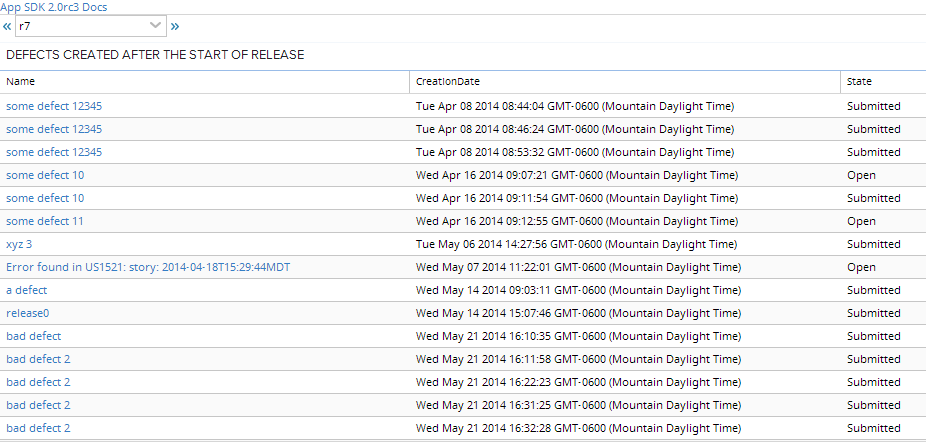
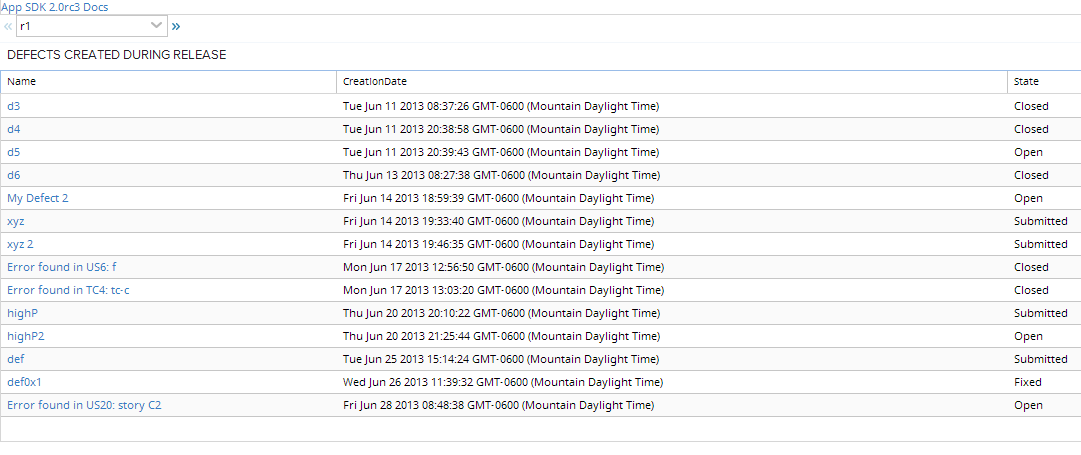
third commit

Changed region(s): [[0.0, 0.0, 1.0, 0.9888]]

diff --git a/deploy/App.html b/deploy/App.html
@@ -1,16 +1,16 @@
 <!DOCTYPE html>
 <html>
 <head>
-    <title>Defects Created After Start of Release</title>
+    <title>Defects created during Release</title>
 
     <script type="text/javascript" src="/apps/2.0rc3/sdk.js"></script>
 
     <script type="text/javascript">
         Rally.onReady(function () {
-                Ext.define("CustomApp",{extend:"Rally.app.App",componentCls:"app",items:{html:'<a href="https://help.rallydev.com/apps/2.0rc3/doc/">App SDK 2.0rc3 Docs</a>'},launch:function(){var rComboBox=Ext.create("Rally.ui.combobox.ReleaseComboBox",{listeners:{ready:function(combobox){this._getData(combobox.getRecord())},select:function(combobox){this._getData(combobox.getRecord())},scope:this}});this.add(rComboBox)},_getData:function(release){var project=this.getContext().getProject(),projectRef=project._ref;this._projectOid=project.ObjectID,console.log(project);var releaseStartDate=release.get("ReleaseStartDate"),releaseStartDateISO=Rally.util.DateTime.toIsoString(releaseStartDate,!0),releaseDate=release.get("ReleaseDate"),releaseDateISO=Rally.util.DateTime.toIsoString(releaseDate,!0),myStore=Ext.create("Rally.data.wsapi.Store",{model:"Defect",autoLoad:!0,fetch:["Name","State","CreationDate"],filters:[{property:"CreationDate",operator:">=",value:releaseStartDateISO},{property:"CreationDate",operator:"<=",value:releaseDateISO},{property:"Project",value:projectRef}],listeners:{load:function(store,records,success){console.log("loaded %i records",records.length),this._updateGrid(myStore)},scope:this}})},_updateGrid:function(myStore){void 0===this._myGrid?this._createGrid(myStore):this._myGrid.reconfigure(myStore)},_createGrid:function(myStore){var that=this;this._myGrid=Ext.create("Ext.grid.Panel",{title:"Defects created after the start of Release",store:myStore,columns:[{text:"Name",dataIndex:"Name",flex:1,renderer:function(val,meta,record){return'<a href="https://rally1.rallydev.com/#/'+that._projectOid+"/detail/iteration/"+record.get("ObjectID")+'" target="_blank">'+record.get("Name")+"</a>"}},{text:"CreationDate",dataIndex:"CreationDate",flex:2},{text:"State",dataIndex:"State",flex:2}],height:400}),this.add(this._myGrid)}});
+                Ext.define("CustomApp",{extend:"Rally.app.App",componentCls:"app",items:{html:'<a href="https://help.rallydev.com/apps/2.0rc3/doc/">App SDK 2.0rc3 Docs</a>'},launch:function(){var rComboBox=Ext.create("Rally.ui.combobox.ReleaseComboBox",{listeners:{ready:function(combobox){this._getData(combobox.getRecord())},select:function(combobox){this._getData(combobox.getRecord())},scope:this}});this.add(rComboBox)},_getData:function(release){var project=this.getContext().getProject(),projectRef=project._ref,releaseStartDate=release.get("ReleaseStartDate"),releaseStartDateISO=Rally.util.DateTime.toIsoString(releaseStartDate,!0),releaseDate=release.get("ReleaseDate"),releaseDateISO=Rally.util.DateTime.toIsoString(releaseDate,!0),myStore=Ext.create("Rally.data.wsapi.Store",{model:"Defect",autoLoad:!0,fetch:["Name","State","CreationDate"],filters:[{property:"CreationDate",operator:">=",value:releaseStartDateISO},{property:"CreationDate",operator:"<=",value:releaseDateISO},{property:"Project",value:projectRef}],listeners:{load:function(store,records,success){console.log("loaded %i records",records.length),this._updateGrid(myStore)},scope:this}})},_updateGrid:function(myStore){void 0===this._myGrid?this._createGrid(myStore):this._myGrid.reconfigure(myStore)},_createGrid:function(myStore){var that=this;this._myGrid=Ext.create("Ext.grid.Panel",{title:"Defects created during Release",store:myStore,columns:[{text:"Name",dataIndex:"Name",flex:1,renderer:function(val,meta,record){return'<a href="https://rally1.rallydev.com/#/'+that._projectOid+"/detail/iteration/"+record.get("ObjectID")+'" target="_blank">'+record.get("Name")+"</a>"}},{text:"CreationDate",dataIndex:"CreationDate",flex:2},{text:"State",dataIndex:"State",flex:2}],height:400}),this.add(this._myGrid)}});
 
             Rally.launchApp('CustomApp', {
-                name:"Defects Created After Start of Release",
+                name:"Defects created during Release",
 	            parentRepos:""
             });
 

diff --git a/deploy/App-uncompressed.html b/deploy/App-uncompressed.html
@@ -1,7 +1,7 @@
 <!DOCTYPE html>
 <html>
 <head>
-    <title>Defects Created After Start of Release</title>
+    <title>Defects created during Release</title>
 
     <script type="text/javascript" src="/apps/2.0rc3/sdk.js"></script>
 
@@ -29,8 +29,6 @@
     _getData: function(release){
         var project = this.getContext().getProject();
         var projectRef = project._ref;
-        this._projectOid = project.ObjectID;
-        console.log(project);
         var releaseStartDate = release.get('ReleaseStartDate');
         var releaseStartDateISO = Rally.util.DateTime.toIsoString(releaseStartDate,true);
         var releaseDate = release.get('ReleaseDate');
@@ -77,7 +75,7 @@
     _createGrid: function(myStore){
         var that = this;
    	this._myGrid = Ext.create('Ext.grid.Panel', {
-            title: 'Defects created after the start of Release',
+            title: 'Defects created during Release',
             store: myStore,
             columns: [
                 {text: 'Name', dataIndex: 'Name', flex: 1,
@@ -96,7 +94,7 @@
 
 
             Rally.launchApp('CustomApp', {
-                name:"Defects Created After Start of Release",
+                name:"Defects created during Release",
 	            parentRepos:""
             });
 

diff --git a/App.js b/App.js
@@ -20,8 +20,6 @@ Ext.define('CustomApp', {
     _getData: function(release){
         var project = this.getContext().getProject();
         var projectRef = project._ref;
-        this._projectOid = project.ObjectID;
-        console.log(project);
         var releaseStartDate = release.get('ReleaseStartDate');
         var releaseStartDateISO = Rally.util.DateTime.toIsoString(releaseStartDate,true);
         var releaseDate = release.get('ReleaseDate');
@@ -68,7 +66,7 @@ Ext.define('CustomApp', {
     _createGrid: function(myStore){
         var that = this;
    	this._myGrid = Ext.create('Ext.grid.Panel', {
-            title: 'Defects created after the start of Release',
+            title: 'Defects created during Release',
             store: myStore,
             columns: [
                 {text: 'Name', dataIndex: 'Name', flex: 1,
